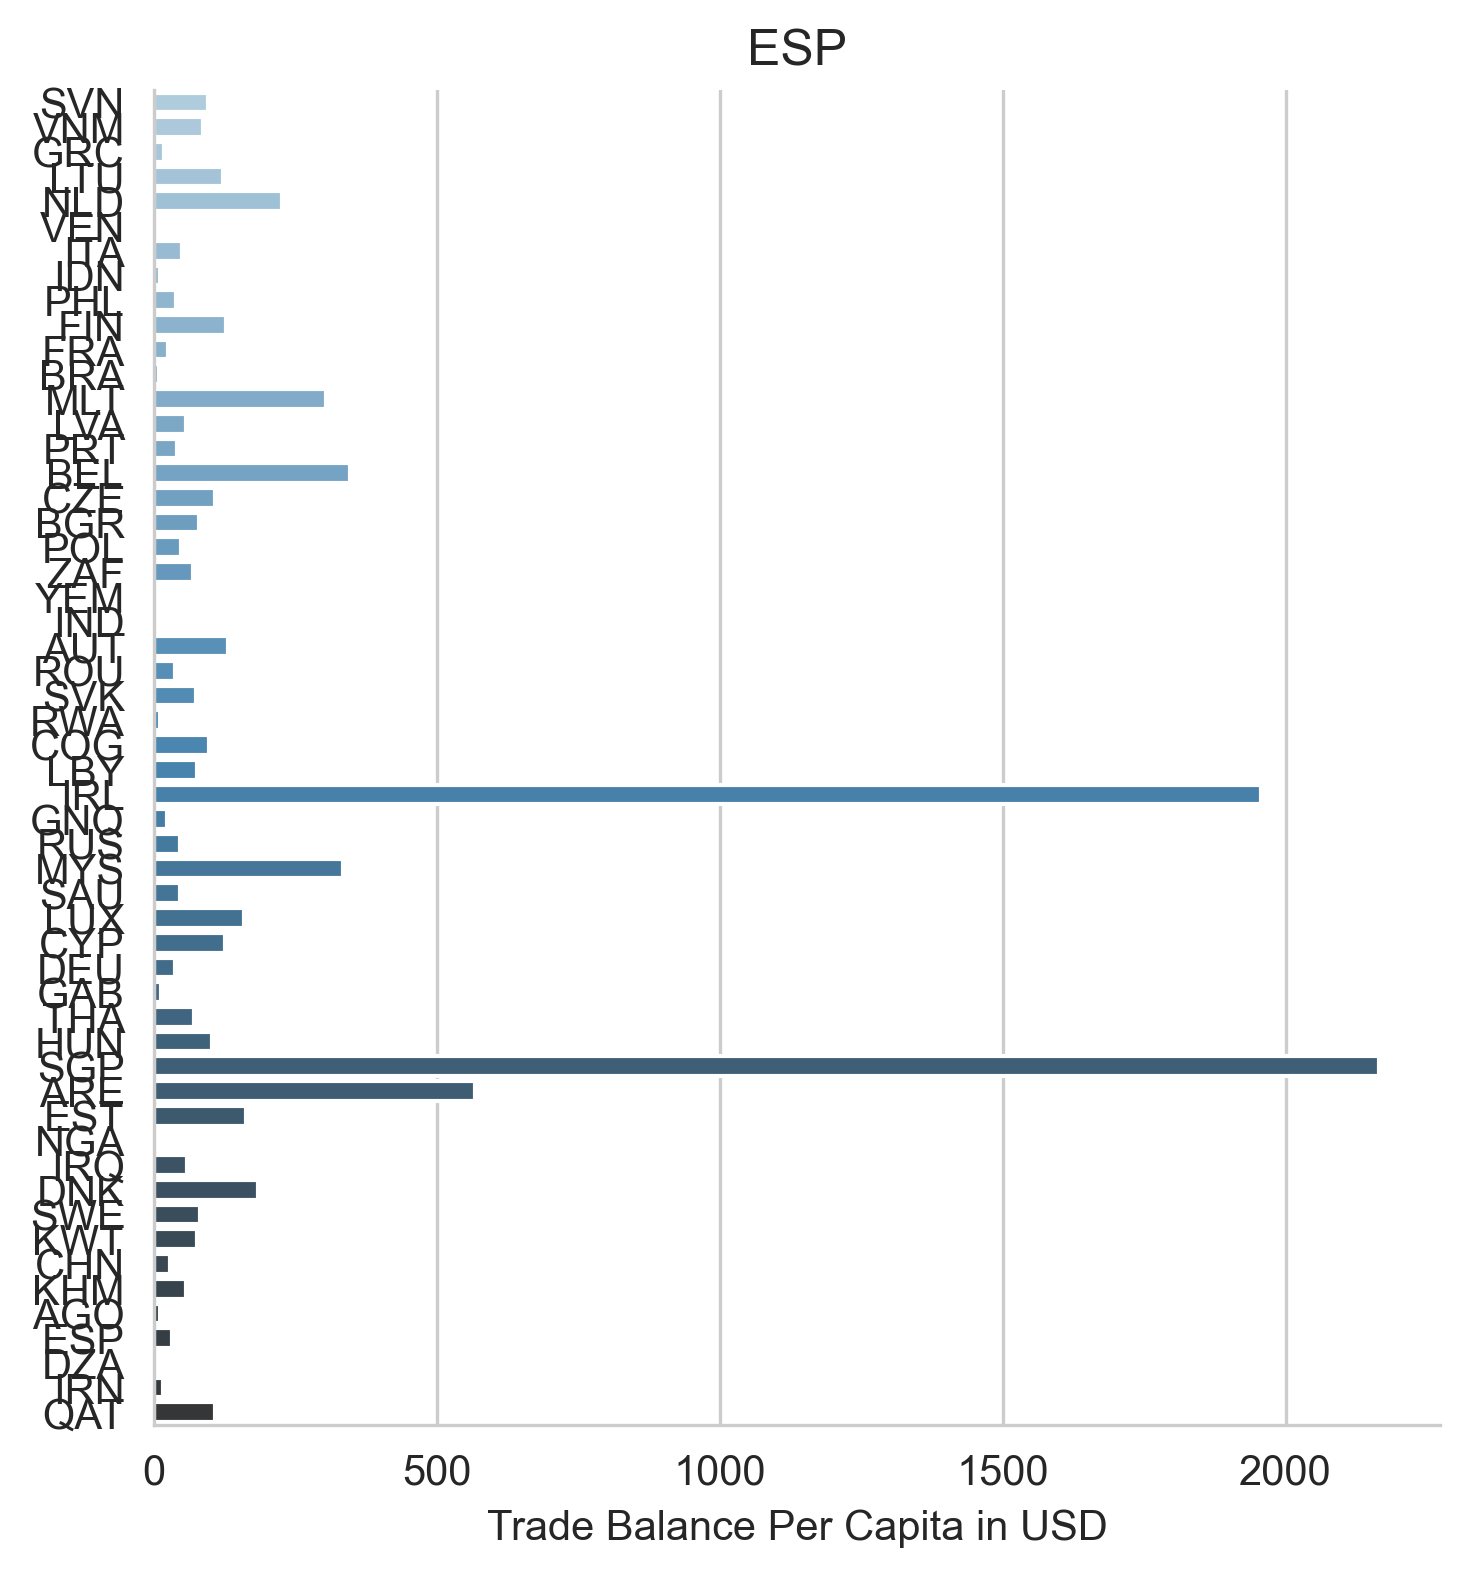
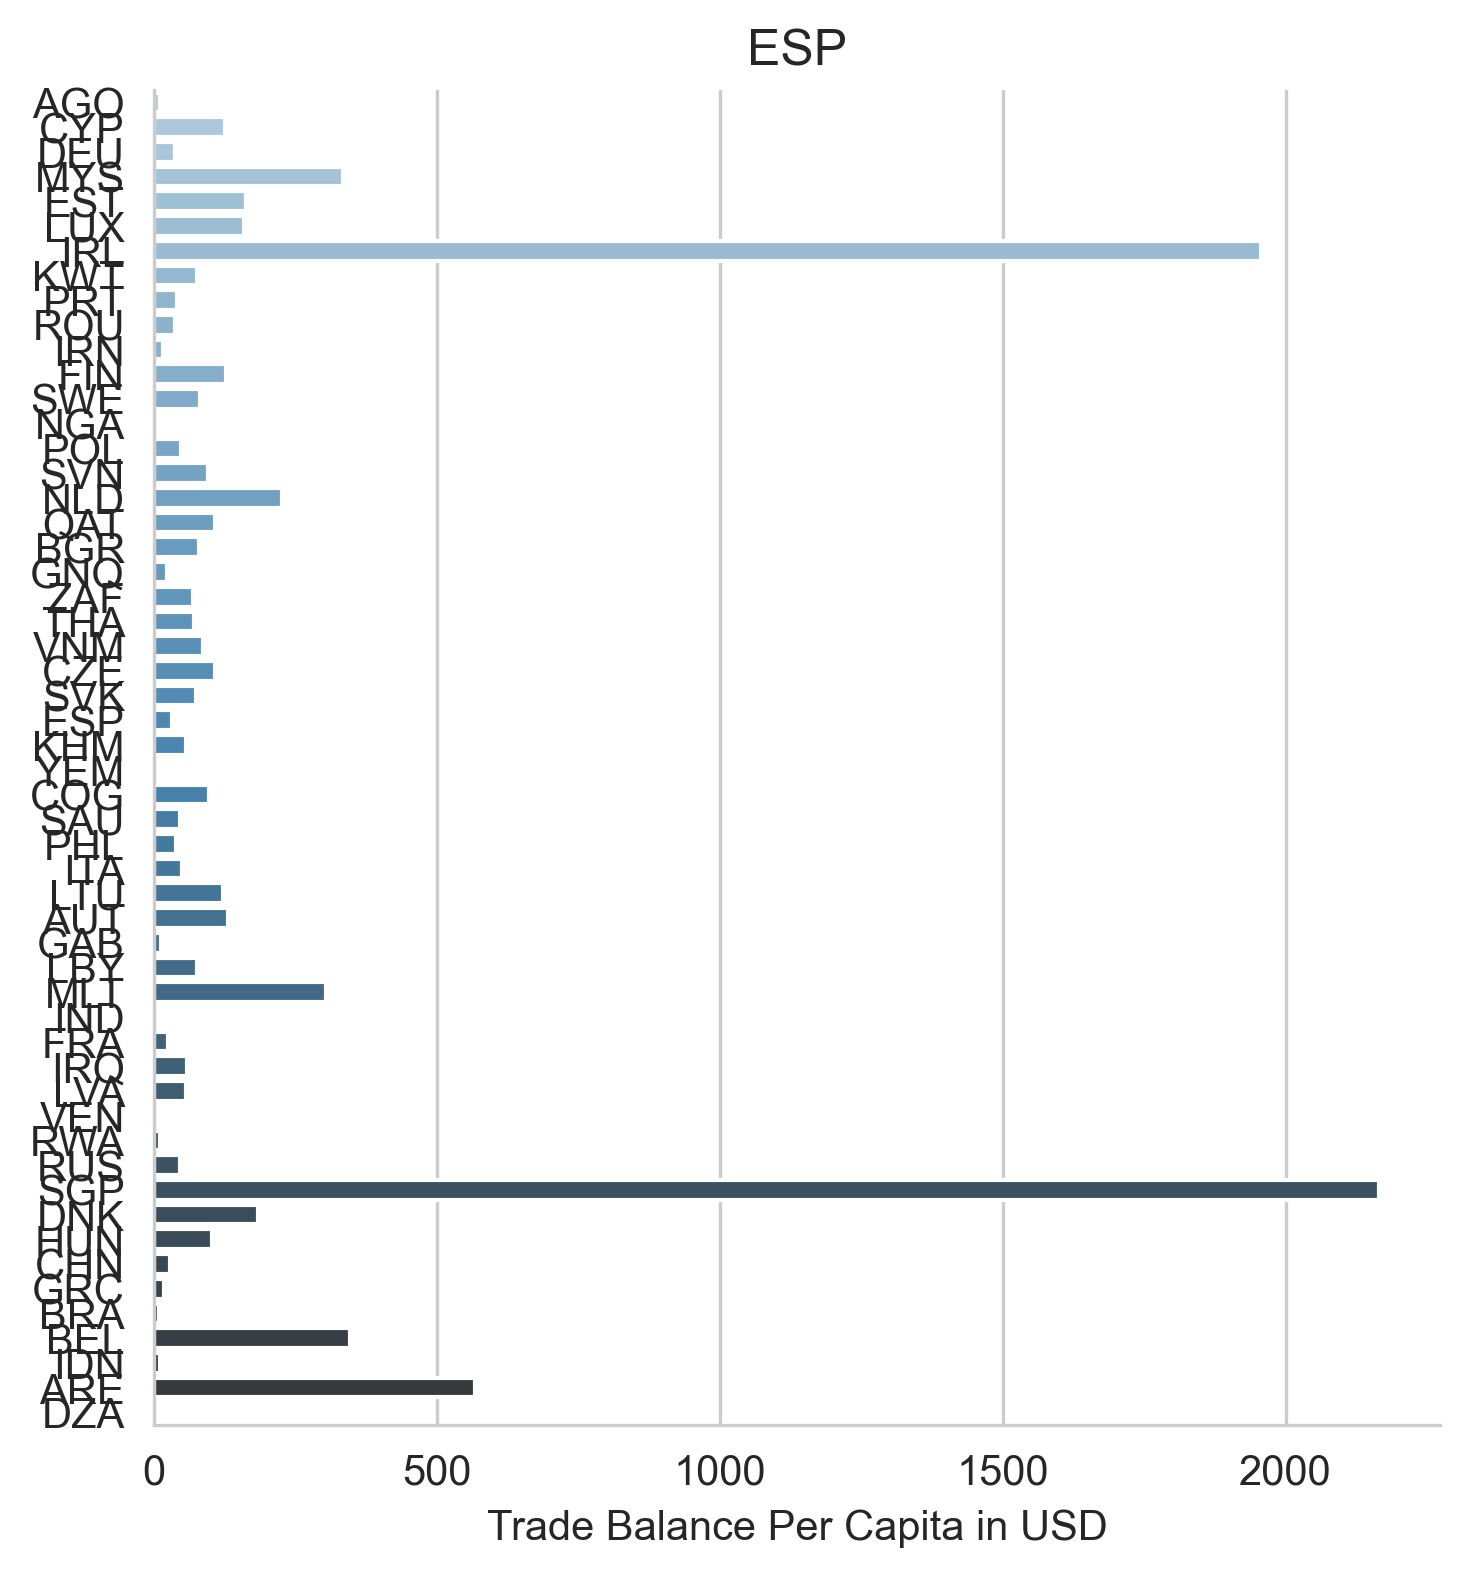
update remote

Changed region(s): [[0.0, 0.0311, 0.9496, 0.9321], [0.1225, 0.7457, 0.9496, 0.8079]]

diff --git a/python/plot_treemaps_exports.py b/python/plot_treemaps_exports.py
@@ -355,6 +355,8 @@ def main():
         plt.title(location_code)
         plt.xlabel('Trade Balance Per Capita in USD')
         plt.ylabel('')
+        # Seaborn decreasethe font size of y labels 
+        plt.yticks(fontsize=10)
         plt.savefig('../output/top10partners_all_countries_df_' + location_code + '.png', dpi=300, bbox_inches='tight')
 
     # Call the function
